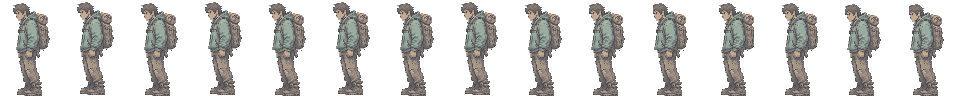
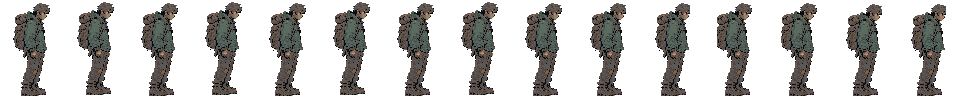
Art: the reference faces right, and only the ambiguous tones move
Two faults in the painted-character pipeline, both found by looking at the output
instead of at the numbers.

THE FIGURE WAS MIRRORED. The tool flipped every character to face right on the
assumption that the source faced left. Tracing the reference's silhouette says
otherwise: the head occupies x 19-36 of the 37px figure and the backpack x 0-12,
so the pack is behind the figure and it already faces right. The flip was turning
every character around. It is now opt-in (--flip) instead of the default.

THE COLOUR WAS WASHED OUT. The value remap stretched the figure's whole luminance
range (8..111) up to 76..179, which adds the same constant to every channel - and
adding a constant preserves hue but destroys saturation. The reference's dark
browns and olives came out grey-green, and the trousers had been pushed from near
black to a cream that is not in the painting at all.

Only the ambiguous band needs to move. The dark outline below the wall already
reads as a dark edge; the bright highlights are already clear; what is genuinely
invisible is the band within a few steps of the background. That band is now
lifted on its own and everything else keeps its value, so the painting keeps its
colour.

Measured on the sprite: mean luminance 79.3, 14 colours, camouflage 0.0% against
a 25% ceiling, and the jacket still reads #4c504a with the trousers #514946 - the
reference's own olive and brown. In game: contrast 50.8, camouflage 11.6%, all
[…]

diff --git a/tools/ingest-character.py b/tools/ingest-character.py
@@ -197,20 +197,39 @@ def process_band(img: Image.Image, x0: int, x1: int, args) -> dict:
     if not opaque.any():
         return None
 
-    # STEP 5b: VALUE SEPARATION - stretch the figure's own luminance range so its
-    # floor clears the background. A muted painting sits at the brightness of the
-    # wall it stands in front of and dissolves, and that is invisible in the
-    # source because there the figure is on white.
+    # STEP 5b: VALUE SEPARATION - move only the tones that are ambiguous.
+    #
+    # Measured on the first painted sprite: character luminance 38.7 against a
+    # wall at 41.9 - a contrast of 3.2 and 82.6% camouflage. A muted painting sits
+    # at the brightness of the wall it stands in front of, and that is invisible in
+    # the source because there the figure is on white.
+    #
+    # A LINEAR stretch of the whole range is the wrong fix and was tried first: it
+    # maps 8..111 to 76..179, adding the same constant to every channel, and adding
+    # a constant preserves hue but destroys saturation - the reference's dark
+    # browns and olives came out washed grey-green.
+    #
+    # What makes a figure readable against a wall is separation in the MIDDLE of
+    # the range. The dark outline below the wall already reads as a dark edge; the
+    # bright highlights are already clear. Only the band within a few steps of the
+    # background is genuinely invisible, so only that band moves, and the painting
+    # keeps its colour everywhere else.
     rgb = small[:, :, :3][opaque].astype(np.float64)
     lum = 0.299 * rgb[:, 0] + 0.587 * rgb[:, 1] + 0.114 * rgb[:, 2]
     lo, hi = np.percentile(lum, 5), np.percentile(lum, 95)
-    span = max(1.0, hi - lo)
+
+    band_lo = max(0.0, WALL_LUM - 18)
+    band_hi = WALL_LUM + 18
+    in_band = (lum >= band_lo) & (lum <= band_hi)
+    if in_band.any():
+        band_lums = lum[in_band]
+        target_lo = WALL_LUM + MARGIN
+        span = max(1.0, band_hi - band_lo)
+        k = (band_lums - band_lo) / span
+        new_lum = target_lo + k * 26
+        rgb[in_band] = np.clip(rgb[in_band] + (new_lum - band_lums)[:, None], 0, 255)
     target_lo = WALL_LUM + MARGIN
-    target_hi = max(target_lo + 40, min(255.0, hi + (target_lo - lo)))
-    k = np.clip((lum - lo) / span, 0, 1)
-    new_lum = target_lo + k * (target_hi - target_lo)
-    delta = (new_lum - lum)[:, None]
-    rgb = np.clip(rgb + delta, 0, 255)
+    target_hi = max(target_lo + 40, hi)
     small[:, :, :3][opaque] = rgb.astype(np.int16)
 
     # STEP 5: lock the palette - the art's own by default
@@ -314,7 +333,7 @@ def main() -> int:
     ap = argparse.ArgumentParser()
     ap.add_argument("key")
     ap.add_argument("--band", type=int, default=None)
-    ap.add_argument("--no-flip", action="store_true")
+    ap.add_argument("--flip", action="store_true", help="mirror the figure (only if the source faces left)")
     ap.add_argument("--project-palette", action="store_true")
     ap.add_argument("--debug", action="store_true", help="write intermediate PNGs to re/")
     ap.add_argument("--static", action="store_true", help="one pose for every frame, no derived motion")
@@ -379,14 +398,14 @@ def main() -> int:
         return 0
 
     fig = figs[0]
-    flip = not args.no_flip
+    flip = args.flip
     print(f"value    figure range {fig['lum_lo']:.0f}..{fig['lum_hi']:.0f} remapped to "
           f"clear the wall (lum {WALL_LUM:.0f}) by {MARGIN:.0f} -> "
           f"{fig['target_lo']:.0f}..{fig['target_hi']:.0f}")
     print(f"palette  {fig['lock_size']} colours locked from the "
           f"{'project' if args.project_palette else 'art itself'}; "
           f"{fig['moved_share']*100:.0f}% of pixels moved")
-    print(f"facing   {'flipped to face right' if flip else 'left as drawn (--no-flip)'}")
+    print(f"facing   {'mirrored (--flip)' if flip else 'as drawn (the reference faces right)'}")
     frames = [compose(fig, flip)]
     if not args.static:
         # animate every frame after the first, so the sheet carries a walk
